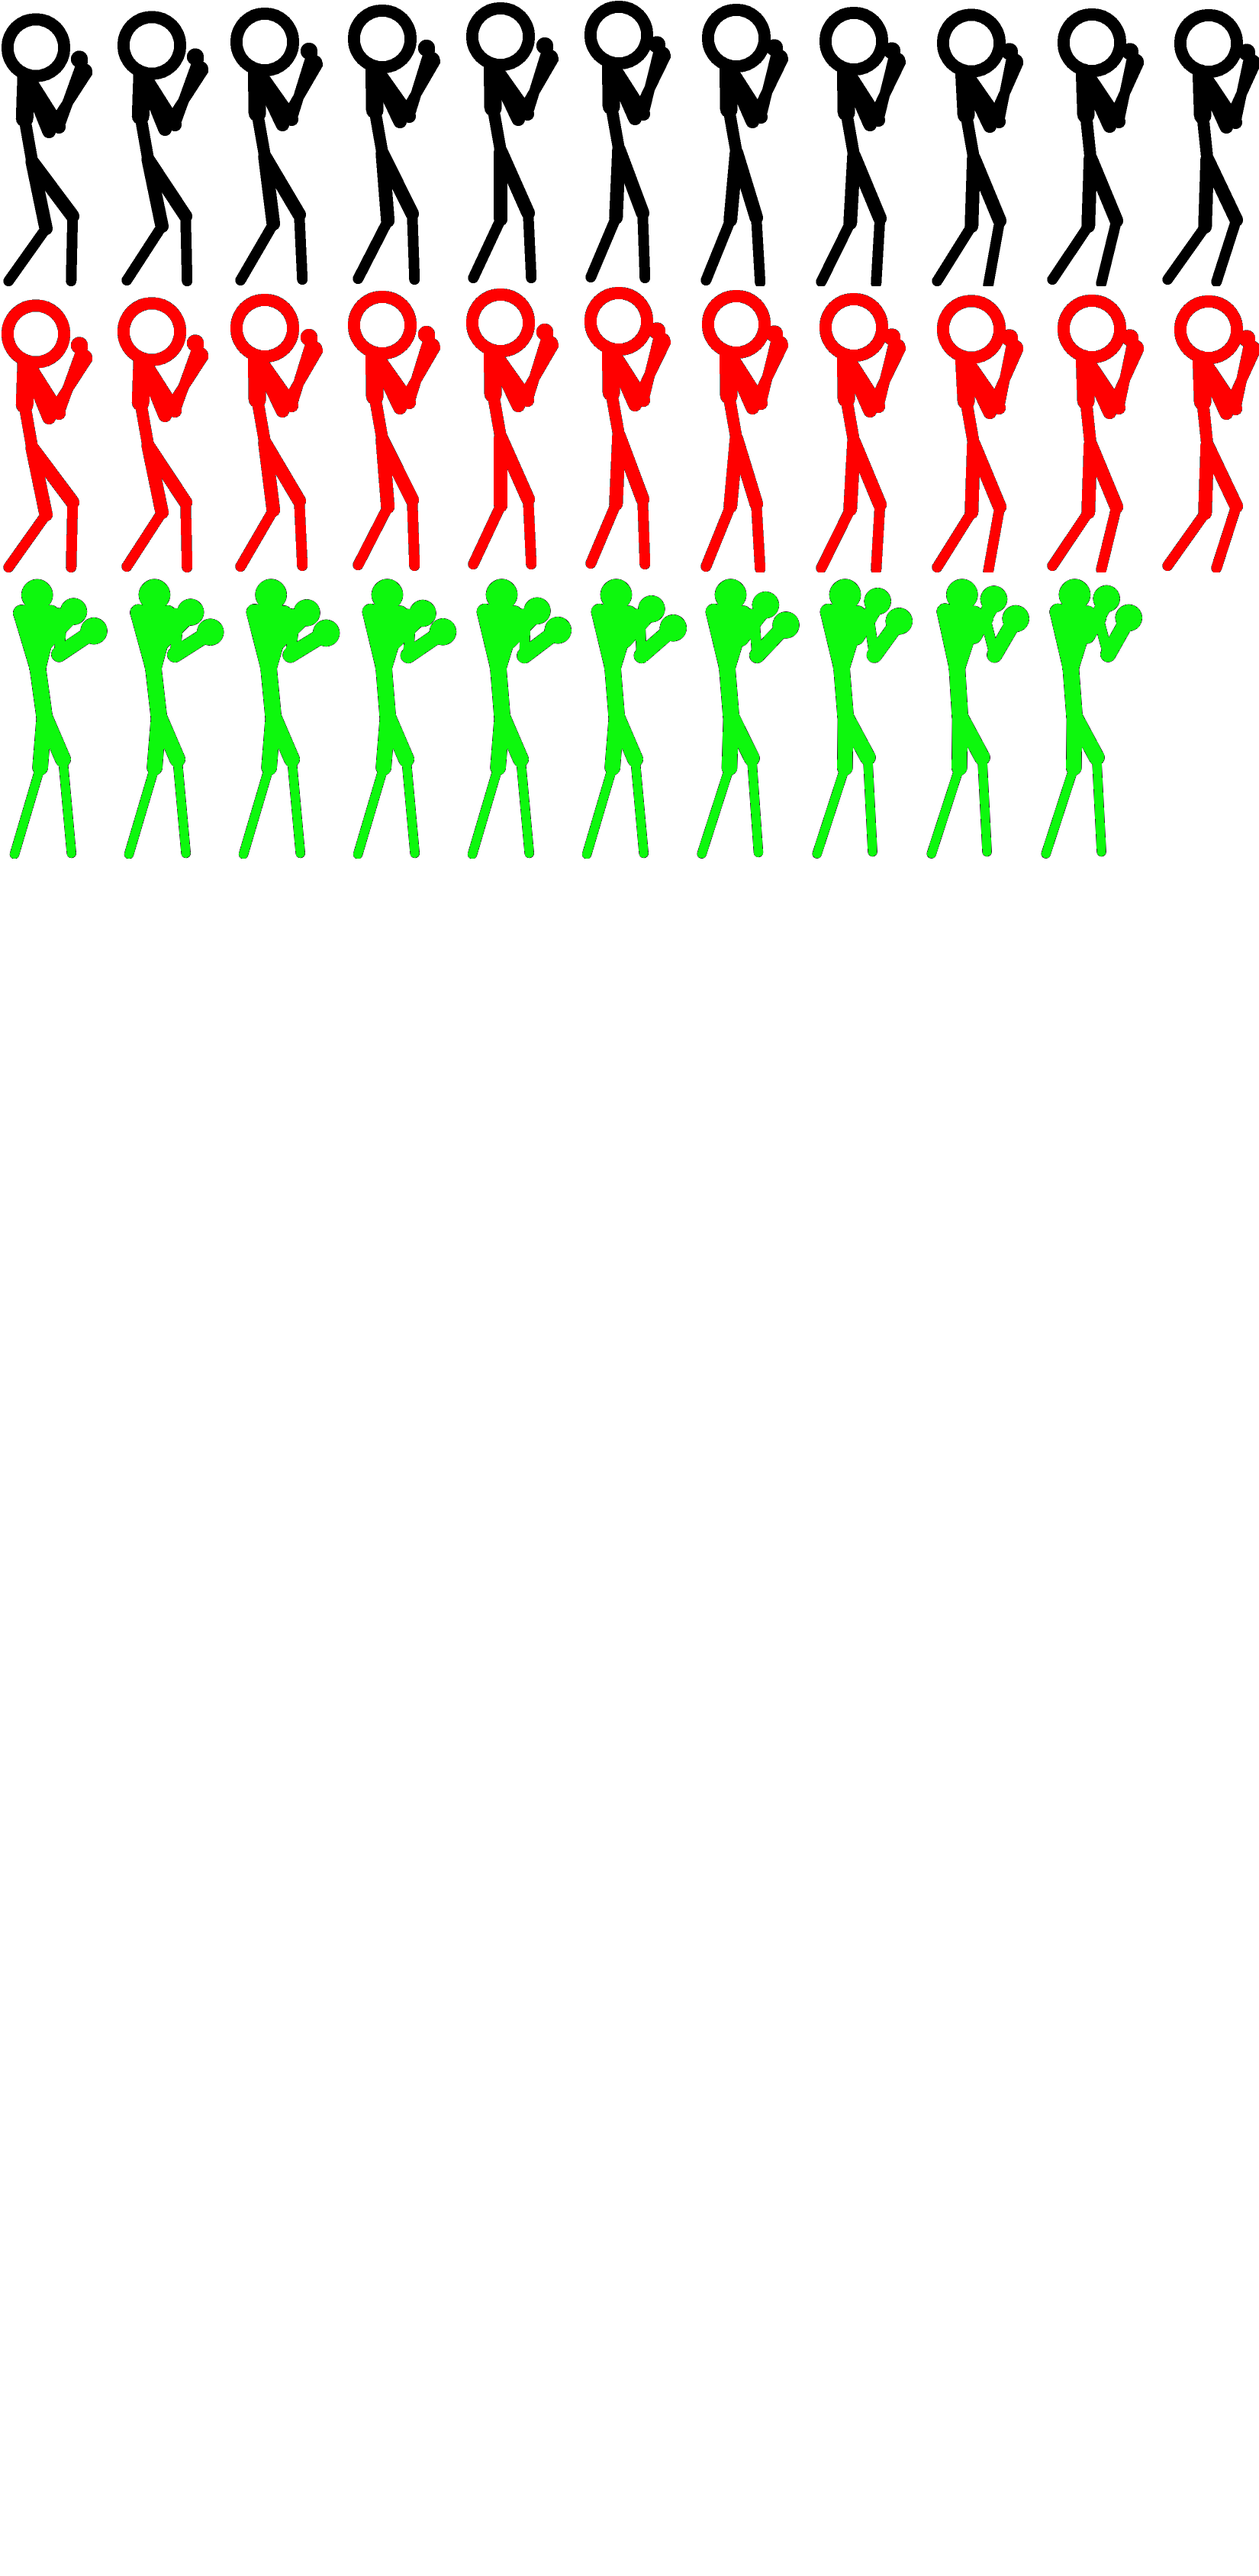
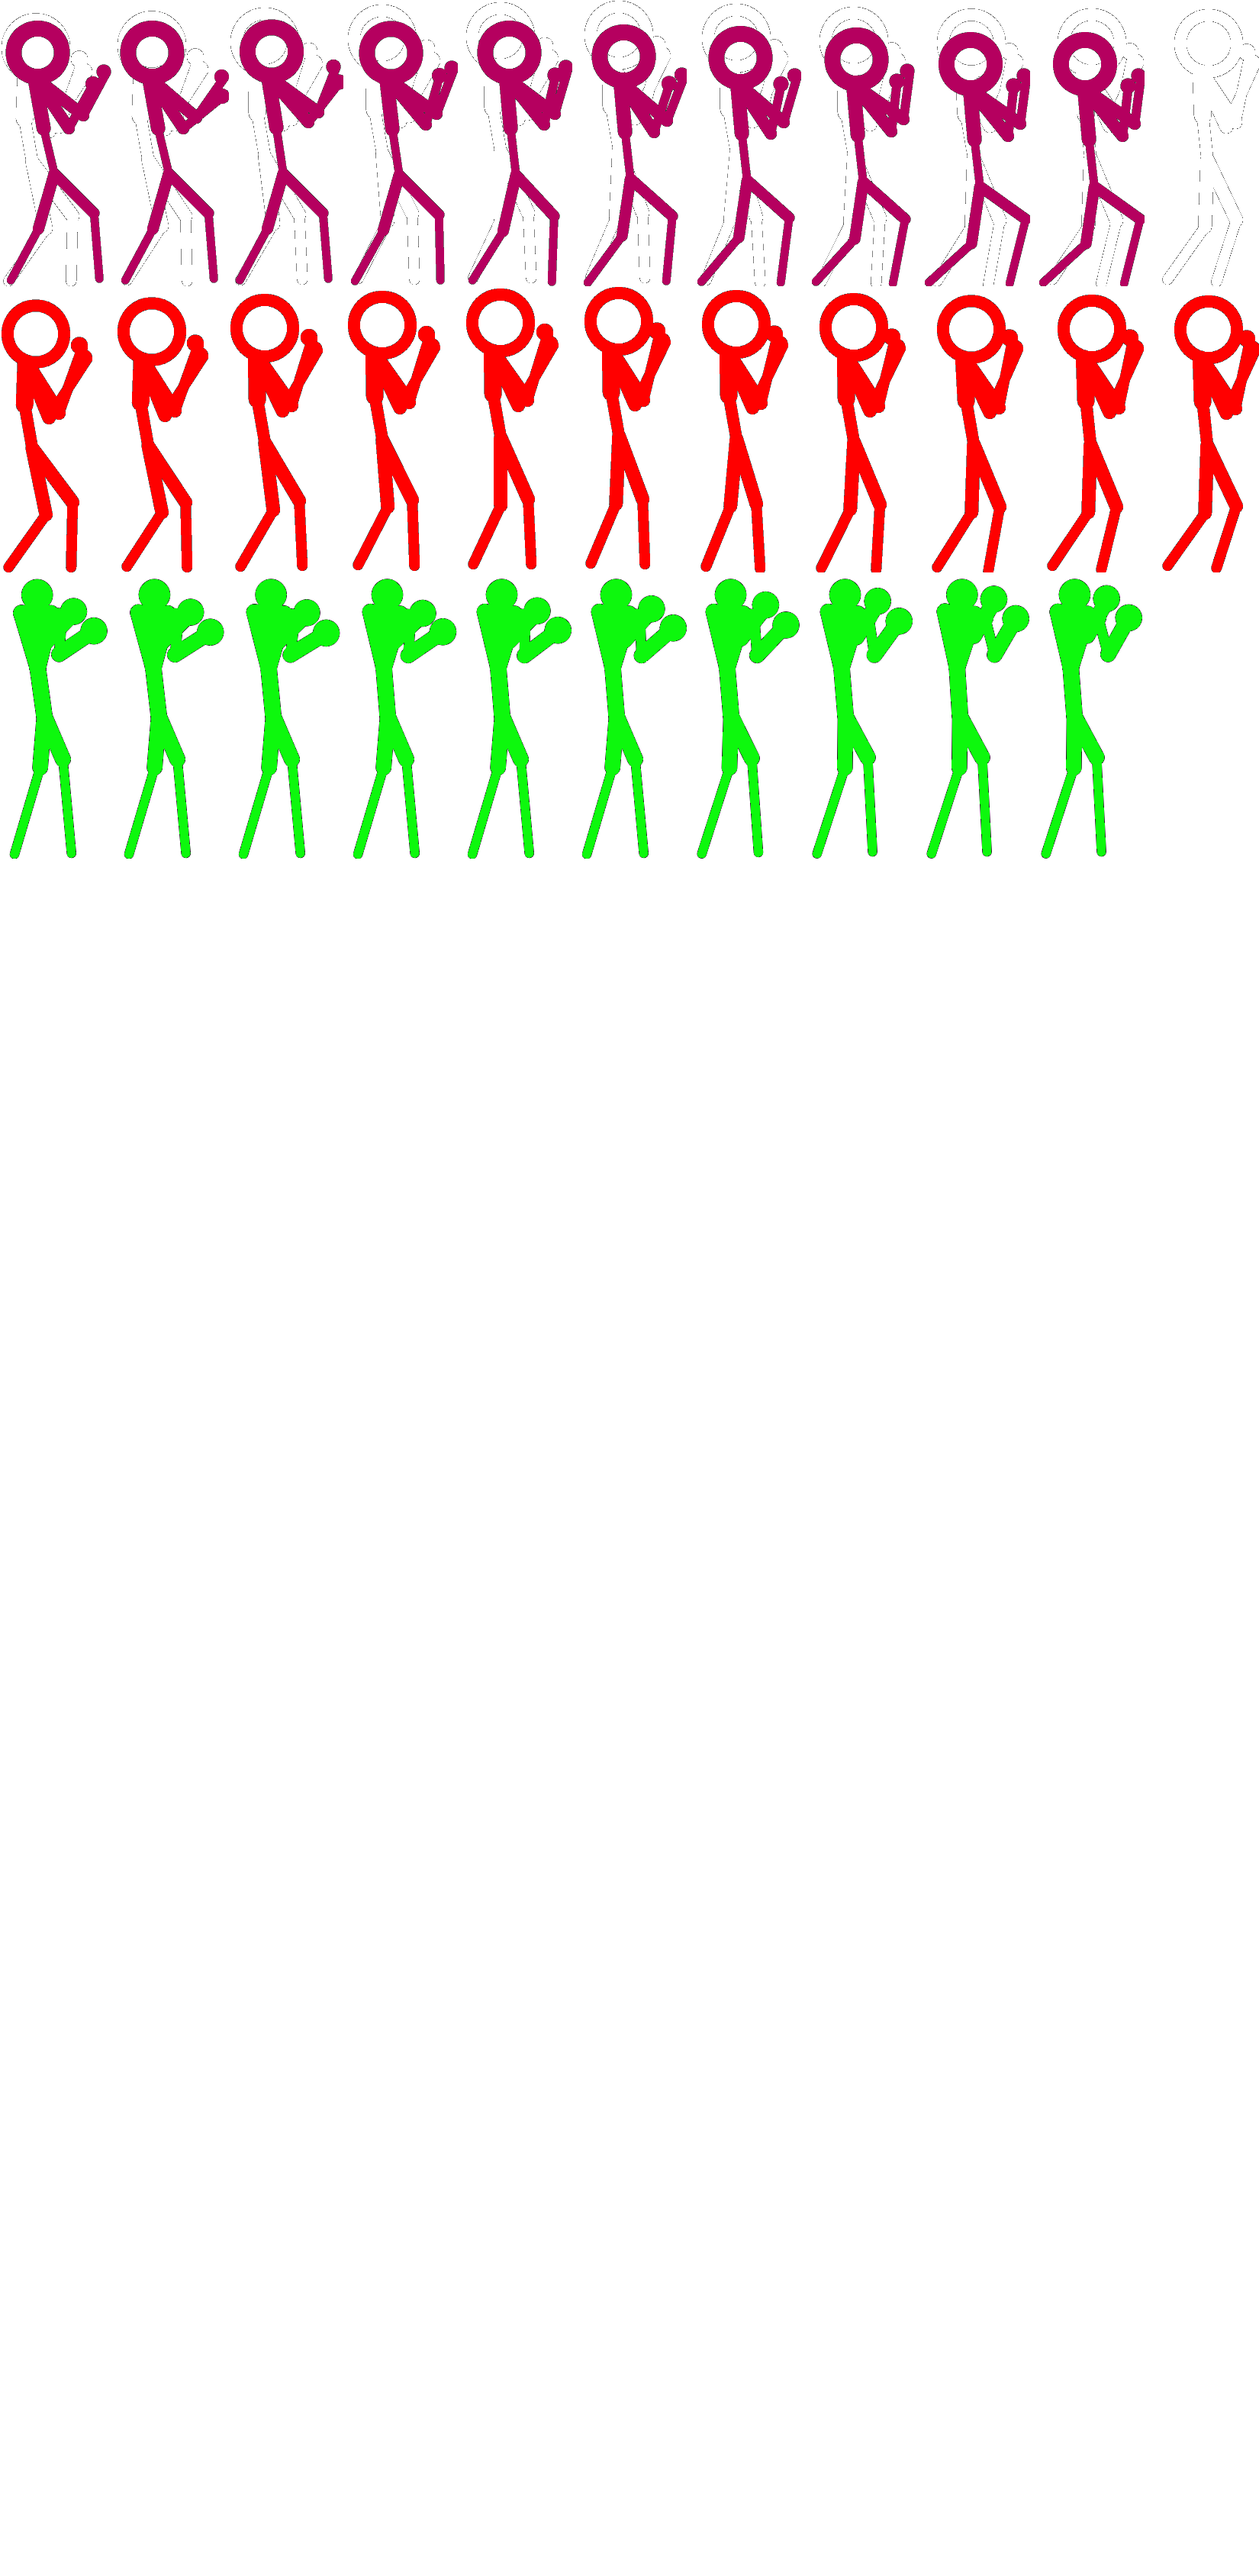
proper rendering of objects before players

Changed region(s): [[0.0, 0.0, 1.0, 0.1244]]

diff --git a/MK_SFML_Game/Arena.cpp b/MK_SFML_Game/Arena.cpp
@@ -1,1 +1,43 @@
 #include "Arena.h"
+
+Arena::Arena()
+{
+	std::shared_ptr<sf::Texture> klocek = std::make_shared<sf::Texture>();
+	std::shared_ptr<sf::Texture> lewyHak = std::make_shared<sf::Texture>();
+	std::shared_ptr<sf::Texture> prawyHak = std::make_shared<sf::Texture>();
+	std::shared_ptr<sf::Texture> head = std::make_shared<sf::Texture>();
+	if (!klocek->loadFromFile("./Textures/klocek.png")) {
+		std::cout << "ERR: ARENA::INITTEXTURE: Could not load klocek file" << std::endl;
+	}
+	if (!lewyHak->loadFromFile("./Textures/hak_l.png")) {
+		std::cout << "ERR: ARENA::INITTEXTURE: Could not load klocek file" << std::endl;
+	}
+	if (!prawyHak->loadFromFile("./Textures/hak_p.png")) {
+		std::cout << "ERR: ARENA::INITTEXTURE: Could not load klocek file" << std::endl;
+	}
+	if (!head->loadFromFile("./Textures/leb.png")) {
+		std::cout << "ERR: ARENA::INITTEXTURE: Could not load klocek file" << std::endl;
+	}
+	this->vectorOfElements.push_back(std::make_unique<BackgroundElement>(klocek, 788, 768));
+	this->vectorOfElements.push_back(std::make_unique<BackgroundElement>(klocek, 1661, 772));
+	this->vectorOfElements.push_back(std::make_unique<BackgroundElement>(klocek, 2434,773 ));
+	this->vectorOfElements.push_back(std::make_unique<BackgroundElement>(lewyHak, 48, -19));
+	this->vectorOfElements.push_back(std::make_unique<BackgroundElement>(prawyHak, 2326, -17));
+	this->vectorOfElements.push_back(std::make_unique<BackgroundElement>(head, -5, 635));
+}
+
+void Arena::render(std::shared_ptr<sf::RenderTarget> win)
+{
+	for (auto& it : vectorOfElements) {
+		it->render(win);
+	}
+}
+
+
+
+void Arena::reset()
+{
+	for (auto& it : vectorOfElements) {
+		it->reset();
+	}
+}

diff --git a/MK_SFML_Game/GameEngine.cpp b/MK_SFML_Game/GameEngine.cpp
@@ -15,6 +15,7 @@ GameEngine::GameEngine(std::shared_ptr<sf::RenderWindow> win) {
 	this->window->setView(*this->view);
 	this->initVariables();
 	this->initWorld("bcg.png");
+	this->initArena();
 	//this->initHealthBars();
 	this->initWinCircles();
 }
@@ -108,6 +109,11 @@ void GameEngine::initPlayersPos() {
 	this->player1->setPosition(840.f, 800.f - this->player1->getBounds().height);
 	this->player2->setRightFacing(false);
 	this->player2->setPosition(1720.f, 800.f - this->player2->getBounds().height);
+}
+
+void GameEngine::initArena()
+{
+	this->arena = std::make_unique<Arena>();
 }
 
 void GameEngine::initWindow() {
@@ -421,7 +427,7 @@ void GameEngine::resetRound() {
 	this->timerGUI->reset();
 	this->wcplayer1->reset();
 	this->wcplayer2->reset();
-	
+	this->arena->reset();
 	this->matchManager->resetRoundTimer();
 	std::cout << "Round ended!\n";
 	 
@@ -436,7 +442,7 @@ void GameEngine::render() {
 
 	this->player1->render(this->window);
 	this->player2->render(this->window);
-
+	this->arena->render(this->window);
 	this->hbplayer1->render(this->window);
 	this->hbplayer2->render(this->window);
 	this->timerGUI->render(this->window);

diff --git a/MK_SFML_Game/BackgroundElement.cpp b/MK_SFML_Game/BackgroundElement.cpp
@@ -1,0 +1,24 @@
+#include "BackgroundElement.h"
+
+BackgroundElement::BackgroundElement(std::shared_ptr<sf::Texture> tex, int postionX, int positionY)
+{
+	this->texture = tex;
+	this->sprite.setTexture(*(this->texture));
+	this->sprite.setPosition(postionX, positionY);
+	this->originalPosition = { (float)postionX, (float)positionY };
+}
+
+void BackgroundElement::render(std::shared_ptr<sf::RenderTarget> win)
+{
+	win->draw(this->sprite);
+}
+
+void BackgroundElement::move(float offsetX, float offsetY)
+{
+	this->sprite.move(offsetX, offsetY);
+}
+
+void BackgroundElement::reset()
+{
+	this->sprite.setPosition(this->originalPosition);
+}

diff --git a/MK_SFML_Game/GameEngine.h b/MK_SFML_Game/GameEngine.h
@@ -7,7 +7,7 @@
 #include "Timer.h"
 #include "WinCircle.h"
 #include "GUIMessage.h"
-
+#include "Arena.h"
 #include "MatchManager.h"
 
 class GameEngine : public Scene{
@@ -35,6 +35,7 @@ private:
 	void initWinCircles();
 	void initGUIMsg();
 	void initPlayersPos();
+	void initArena();
 	void pollEvents() override;
 
 	//otehers
@@ -80,4 +81,5 @@ private:
 	std::unique_ptr<WinCircle> wcplayer1;
 	std::unique_ptr<WinCircle> wcplayer2;
 	std::unique_ptr<GUIMessage> msg;
+	std::unique_ptr<Arena> arena;
 };

diff --git a/MK_SFML_Game/BackgroundElement.h b/MK_SFML_Game/BackgroundElement.h
@@ -1,0 +1,18 @@
+#pragma once
+#include "GameGUIElement.h"
+class BackgroundElement :
+    public GameGUIElement
+{
+public:
+    BackgroundElement(std::shared_ptr<sf::Texture> tex, int postionX, int positionY);
+    void render(std::shared_ptr<sf::RenderTarget> win);
+    void move(float offsetX, float offsetY);
+    void reset();
+private:
+    std::shared_ptr<sf::Texture> texture;
+   
+    sf::Sprite sprite;
+    sf::Vector2f originalPosition;
+
+};
+

diff --git a/MK_SFML_Game/Arena.h b/MK_SFML_Game/Arena.h
@@ -1,7 +1,13 @@
 #pragma once
-#include "GameObject.h"
-class Arena :
-    public GameObject
+#include "GameGUIElement.h"
+#include "BackgroundElement.h"
+class Arena   
 {
+public:
+    Arena();
+    void render(std::shared_ptr<sf::RenderTarget> win);
+    void reset();
+private:
+    std::vector<std::unique_ptr<BackgroundElement>> vectorOfElements;
 };
 
